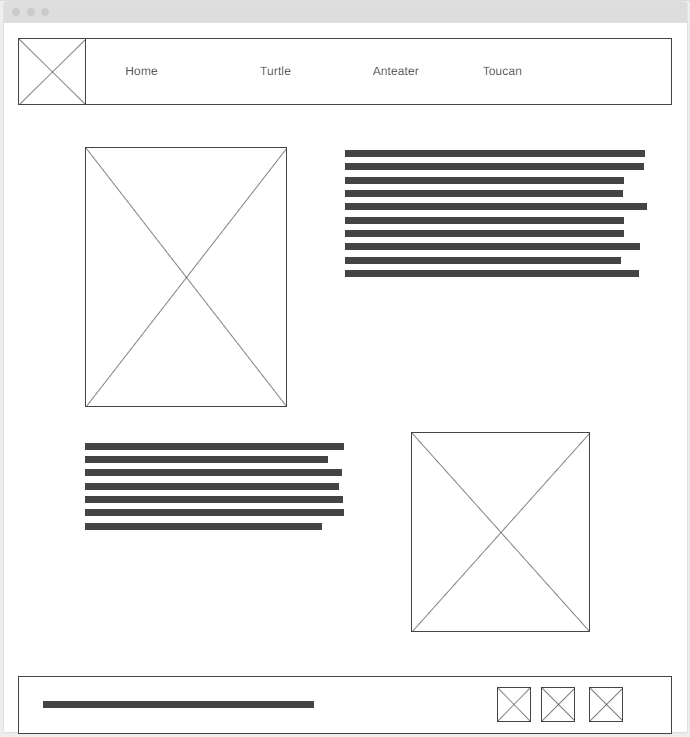
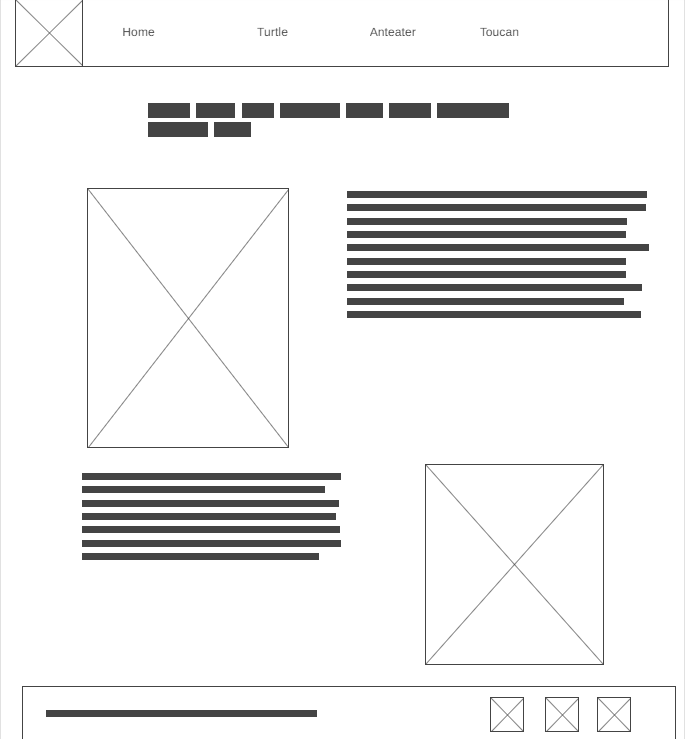
add more wireframes

diff --git a/fav_animals/site-plan.html b/fav_animals/site-plan.html
@@ -31,7 +31,7 @@
       <h2>Branding</h2>
       <h3>Website Logo</h3>
       <!-- Replace this with some sort of logo for your site.  A logo can be as simple as the name of your site in a nice font :) -->
-      <img src="https://raw.githubusercontent.com/TiagoWurmli/wwd130/master/fav_animals/styles/logo.webp" alt="Logo image">
+      <img src="https://raw.githubusercontent.com/TiagoWurmli/wwd130/master/fav_animals/styles/logo.png" alt="Logo image">
       <hr>
       <h2>
         Style Guide
@@ -87,7 +87,7 @@
       </h3>
       <!-- Think about how you want your navigation bar to look. In the site-plan.css file change the colors to your colors to get the look you desire. --> 
       <nav>
-        <a href="#">Home</a>
+        <a href="fav_animals/site-plan.html">Home</a>
         <a href="#">Turtle</a>
         <a href="#">Anteater</a>
         <a href="#">Toucan</a>
@@ -179,7 +179,7 @@
       <p>         
         [Any additional details about home that the wireframe does not make clear]
       </p>
-      <img src="#" alt="home page wireframe">
+      <img src="https://raw.githubusercontent.com/TiagoWurmli/wwd130/master/fav_animals/styles/wireframe-home.png" alt="home page wireframe">
 
       <h3>Turtle</h3>
       <p>         
